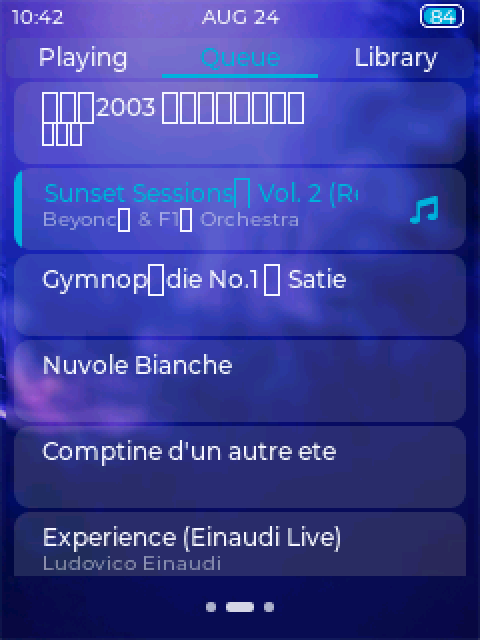
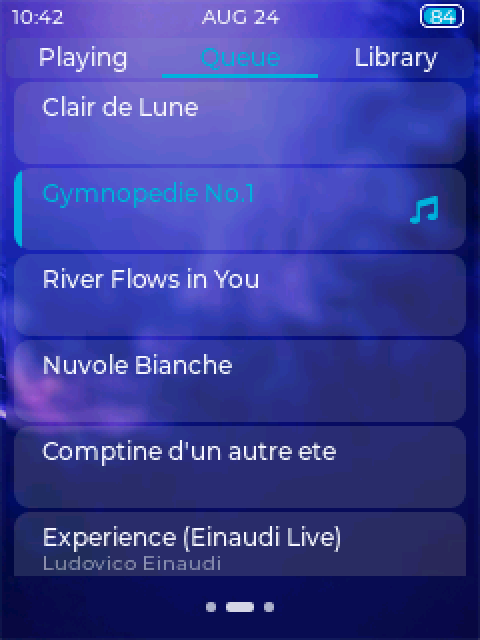
chore(gui): 原型假标签只在方案 1..3 生效，保持现有基线（#147）

diff --git a/Tools/gui_simulator/prototype_147_queue_row/PROTOTYPE.md b/Tools/gui_simulator/prototype_147_queue_row/PROTOTYPE.md
@@ -17,7 +17,7 @@ cmake --build build/gui_simulator
 改动：
 - `Service/gui/main/queue/gui_service_main_queue.c`：方案表 `service_gui_main_queue_proto_layouts[]`；方案 1–3 的曲名与歌手都取 `service_gui_font_title()`；打印 `[proto]` 几何。
 - `Tools/gui_simulator/sim_script.c`：`--queue-layout N`。
-- `Tools/gui_simulator/fakes/storage_sim.c`：位置 0–2 补假标签，首屏四类行。
+- `Tools/gui_simulator/fakes/storage_sim.c`：位置 0–2 补假标签，首屏四类行；只在 `--queue-layout 1..3` 生效，`0`（现状）保持原曲库，现有场景基线不变（“现状”截图因此是原曲库，仅作对照）。
 
 ## 首屏四类行
 
